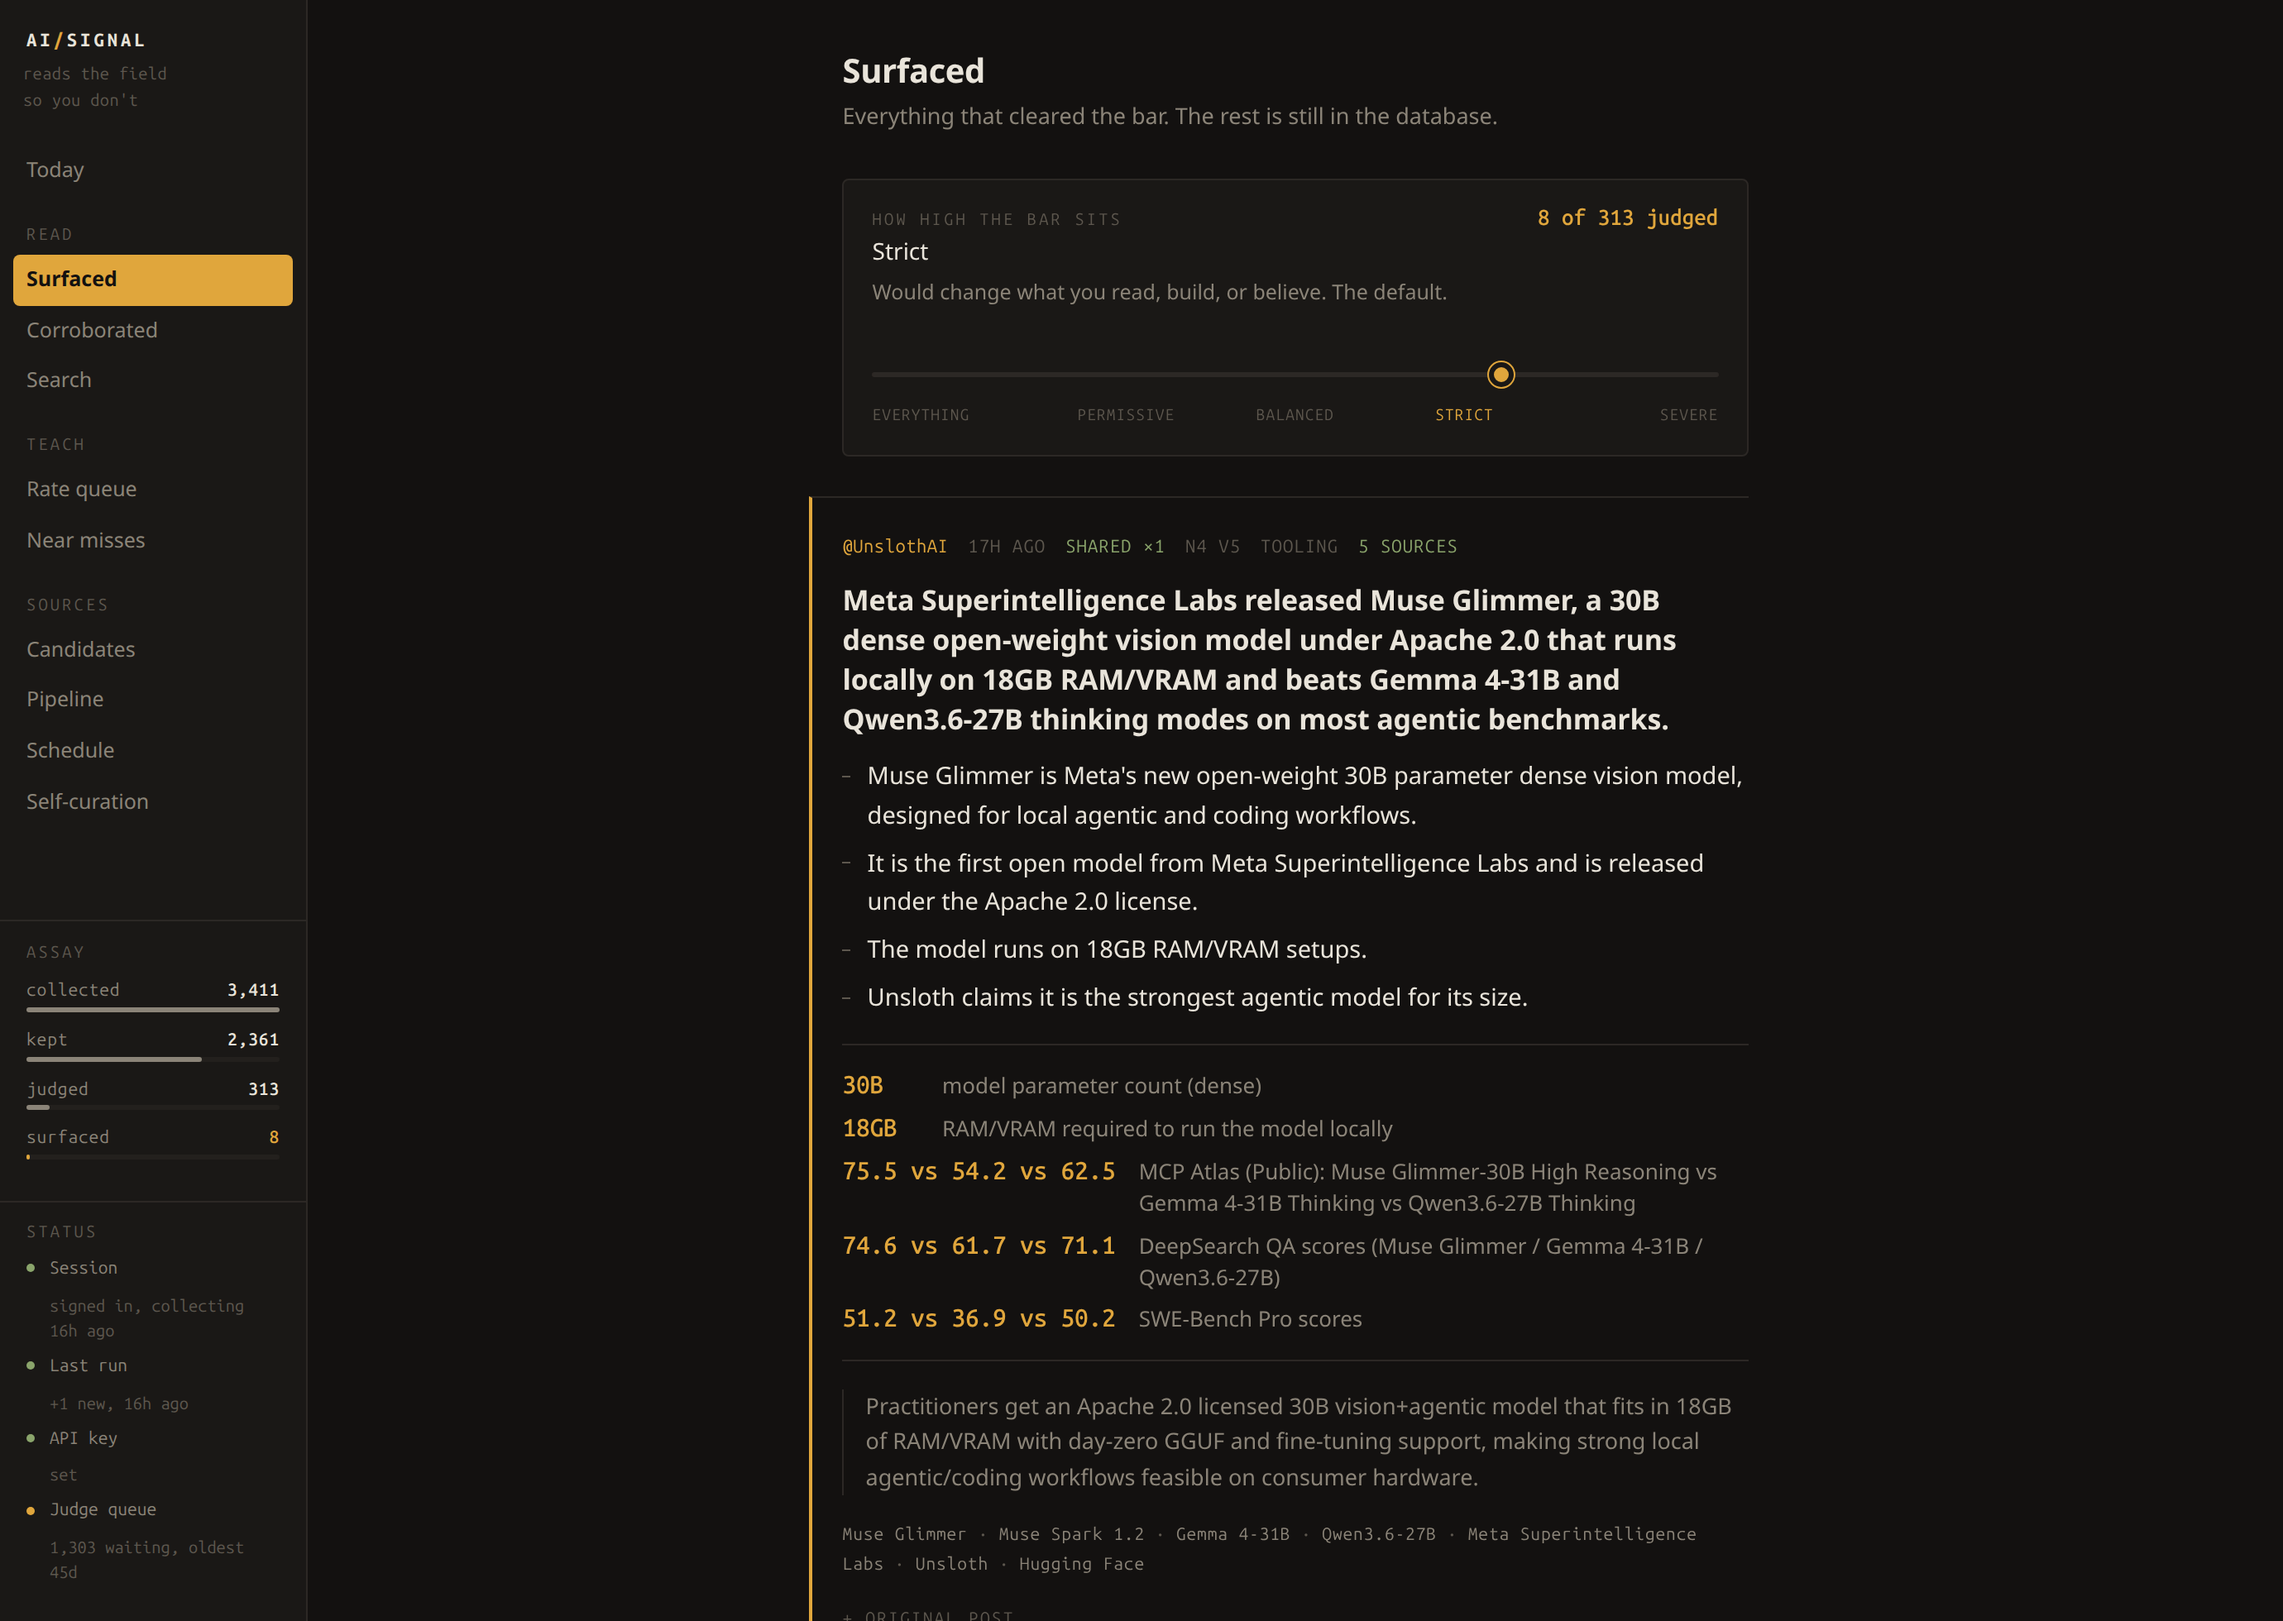
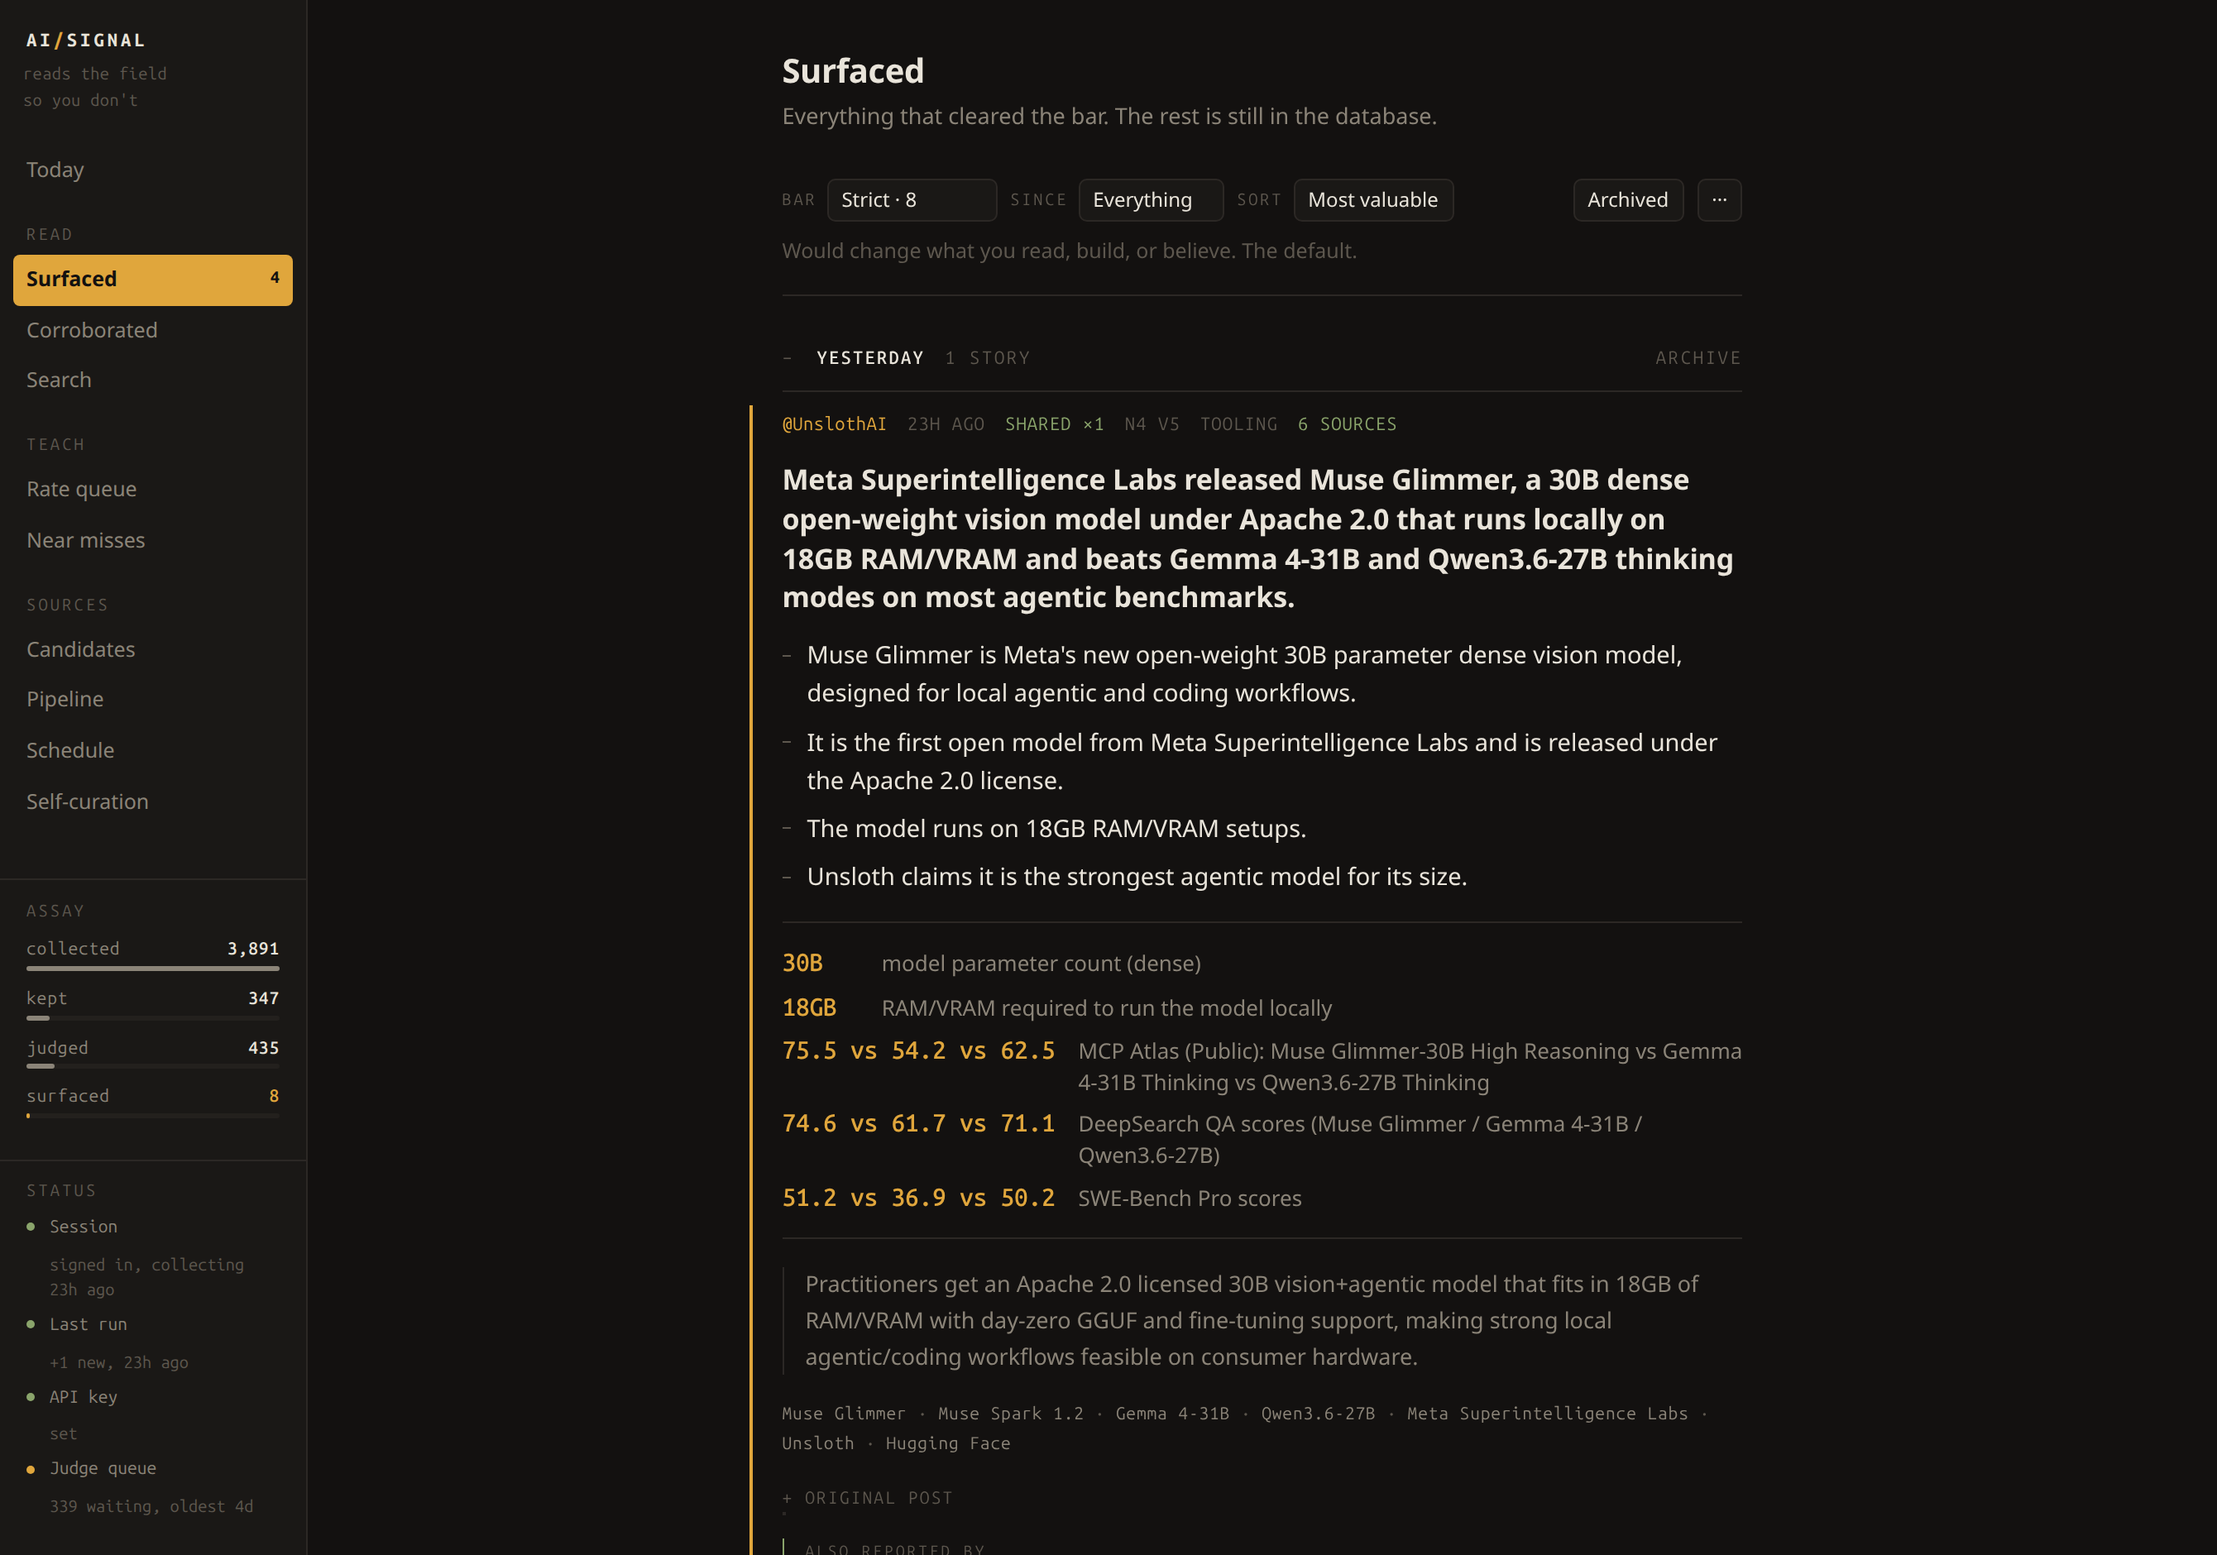
Redesign the reading views around the posts, not the controls
The feed had grown a control panel: a strictness card, six window buttons, three
sort buttons and two archive actions — eleven controls in three stacked rows,
so a page about reading opened with chrome and you scrolled to reach the first
post.

They are one row now. Three selects and a button, each carrying its current
value as its own label, which the button rows could only convey by
highlighting one of six. The rare and destructive-sounding actions — archive a
week, mark all unread — moved into an overflow menu that closes on an outside
click. Same functions, a fifth of the space, and the first post is above the
fold.

Two bugs found by finally rendering every view rather than the two I had
screenshots of:

Candidates was in the navigation with no branch in render(), so clicking it
fell through to the feed path, found no COPY entry and threw on the
destructure. Its list renderer had existed the whole time with nothing calling
it.

And `nav button { display: block }` outranks the `hidden` attribute, so the
"Setting up" link stayed in the sidebar permanently once setup was finished —
visible in every screenshot since it was added, including the ones in the
README.

Light mode is checked now too. It had been defined since the first version of
this UI and never once rendered.

174 tests pass; all eleven views render with no console errors.

diff --git a/ui/index.html b/ui/index.html
@@ -70,6 +70,7 @@ nav button {
   color: var(--muted); text-align: left; padding: 6px 8px; border-radius: 4px;
   font: 12.5px/1.5 var(--sans);
 }
+nav button[hidden] { display: none; }   /* display:block above outranks [hidden] */
 nav button:hover { color: var(--paper); background: var(--raise); }
 nav button.on { color: var(--ink); background: var(--signal); font-weight: 600; }
 nav button:focus-visible { outline: 2px solid var(--signal); outline-offset: 1px; }
@@ -124,7 +125,12 @@ nav button.on b { color: var(--ink); }
 /* --- content ------------------------------------------------------------- */
 main { overflow-y: auto; padding: 30px 40px 80px; }
 .wrap, .wide { margin: 0 auto; }
-.wrap { max-width: 66ch; }
+.wrap { max-width: 70ch; }
+/* Controls are laid out on the content column but must never wrap onto a
+   second line — that was the shape the old three-row stack took. */
+.toolbar { flex-wrap: nowrap; }
+.toolbar .ctl > span { flex: 0 0 auto; }
+.ctl select { max-width: 15ch; text-overflow: ellipsis; }
 .wide-data { max-width: 940px; }          /* prose beyond this is unreadable */
 .wide { max-width: 900px; }
 h1 {
@@ -265,6 +271,52 @@ code {
 .searchbar input:focus {
   outline: none; border-color: var(--signal);
 }
+
+/* --- toolbar -------------------------------------------------------------- */
+/* Controls sit on one line and stay quiet: they are how you adjust the view,
+   not what the page is about. Each select carries its current value as its
+   label, so nothing has to be highlighted to be legible. */
+.toolbar {
+  display: flex; align-items: center; gap: 8px;
+  margin-bottom: 8px;
+}
+.toolbar .spacer { flex: 1 1 auto; }
+.ctl { display: inline-flex; align-items: center; gap: 6px; }
+.ctl > span {
+  font: 10px/1 var(--mono); letter-spacing: .14em; text-transform: uppercase;
+  color: var(--faint);
+}
+.ctl select, .toolbar .ghost {
+  appearance: none; background: var(--panel); color: var(--paper);
+  border: 1px solid var(--rule); border-radius: 5px;
+  padding: 4px 8px; font: 12px/1.4 var(--sans); cursor: pointer;
+}
+.ctl select:hover, .toolbar .ghost:hover { border-color: var(--muted); }
+.ctl select:focus-visible, .toolbar .ghost:focus-visible {
+  outline: 2px solid var(--signal); outline-offset: 1px;
+}
+.toolbar .ghost.on { border-color: var(--signal); color: var(--signal); }
+.barnote {
+  font-size: 12.5px; color: var(--faint);
+  margin: 0 0 20px; padding-bottom: 16px;
+  border-bottom: 1px solid var(--rule);
+}
+
+/* the overflow menu keeps rare, destructive-sounding actions out of the way */
+.menu { position: relative; }
+.menu .pop {
+  display: none; position: absolute; right: 0; top: calc(100% + 5px); z-index: 20;
+  background: var(--panel); border: 1px solid var(--rule); border-radius: 6px;
+  padding: 4px; min-width: 210px;
+  box-shadow: 0 6px 20px rgba(0, 0, 0, .28);
+}
+.menu.open .pop { display: block; }
+.menu .pop button {
+  display: block; width: 100%; text-align: left; background: none; border: 0;
+  color: var(--paper); padding: 7px 10px; border-radius: 4px; cursor: pointer;
+  font: 12.5px/1.4 var(--sans);
+}
+.menu .pop button:hover { background: var(--raise); }
 
 /* --- strictness control -------------------------------------------------- */
 .bar-tool {
@@ -851,33 +903,55 @@ async function curUndo()  { await api().curate_undo();  render(); }
 /* ---- strictness slider --------------------------------------------------- */
 let LEVELS = [], LEVEL_I = 0;
 
-function strictWidget() {
-  const cur = LEVELS[LEVEL_I] || {};
-  return `<div class="bar-tool">
-    <div class="bar-head">
-      <span class="lbl">How high the bar sits</span>
-      <span class="cnt" id="scount">${num(cur.count || 0)} of ${num(LEVELS.length ? LEVELS[0].count : 0)} judged</span>
-    </div>
-    <div class="bar-head"><span class="now" id="sname">${esc(cur.label || '')}</span></div>
-    <div class="bar-note" id="snote">${esc(cur.note || '')}</div>
-    <input type="range" class="slider" min="0" max="${LEVELS.length - 1}" step="1"
-           value="${LEVEL_I}" aria-label="Strictness"
-           oninput="strictPreview(this.value)" onchange="strictApply(this.value)">
-    <div class="ticks">${LEVELS.map((l, i) =>
-      `<span class="${i === LEVEL_I ? 'on' : ''}" onclick="strictApply(${i})">${esc(l.label)}</span>`).join('')}</div>
-  </div>`;
-}
+/* One row instead of eleven buttons in three.
+   The controls had grown by accretion — a strictness card, six window buttons,
+   three sort buttons and two archive actions — so a page about reading opened
+   with a control panel and you scrolled to reach the first post. Selects say
+   the same things in a fifth of the space, and each one shows its current
+   value as its label, which the button rows could only do by highlighting. */
+function toolbar(view) {
+  const bar = view === 'surfaced' ? `
+    <label class="ctl">
+      <span>Bar</span>
+      <select onchange="strictApply(this.value)">
+        ${LEVELS.map((l, i) => `<option value="${i}" ${i === LEVEL_I ? 'selected' : ''}
+          >${esc(l.label)} · ${num(l.count || 0)}</option>`).join('')}
+      </select>
+    </label>` : '';
 
-/* Dragging only re-reads stored scores, so the count updates instantly and
-   nothing is written until the user lets go. */
-function strictPreview(i) {
-  const l = LEVELS[+i]; if (!l) return;
-  document.getElementById('sname').textContent = l.label;
-  document.getElementById('snote').textContent = l.note;
-  document.getElementById('scount').textContent =
-    `${num(l.count)} of ${num(LEVELS[0].count)} judged`;
-  document.querySelectorAll('.ticks span').forEach((t, n) =>
-    t.classList.toggle('on', n === +i));
+  const sort = view === 'surfaced' ? `
+    <label class="ctl">
+      <span>Sort</span>
+      <select onchange="setSort(this.value)">
+        ${SORTS.map(([k, label]) => `<option value="${k}" ${SORT === k ? 'selected' : ''}
+          >${label}</option>`).join('')}
+      </select>
+    </label>` : '';
+
+  return `<div class="toolbar">
+    ${bar}
+    <label class="ctl">
+      <span>Since</span>
+      <select onchange="setWindow(+this.value)">
+        ${WINDOWS.map(([d, label]) => `<option value="${d}" ${WINDOW === d ? 'selected' : ''}
+          >${label}</option>`).join('')}
+      </select>
+    </label>
+    ${sort}
+    <div class="spacer"></div>
+    <button class="ghost ${ARCHIVED ? 'on' : ''}" onclick="toggleArchived()"
+      >${ARCHIVED ? 'Back to inbox' : 'Archived'}</button>
+    <div class="menu">
+      <button class="ghost" onclick="this.parentElement.classList.toggle('open')"
+              aria-label="More actions">···</button>
+      <div class="pop">
+        <button onclick="clearOld()">Archive older than a week</button>
+        <button onclick="unreadAll()">Mark all unread</button>
+      </div>
+    </div>
+  </div>
+  ${view === 'surfaced' ? `<div class="barnote" id="snote">${
+    esc((LEVELS[LEVEL_I] || {}).note || '')}</div>` : ''}`;
 }
 
 async function strictApply(i) {
@@ -966,6 +1040,21 @@ async function render() {
   if (view === 'setup') { return renderSetup(main); }
   if (view === 'search') { return renderSearch(main); }
 
+  // Candidates was in the nav with no branch here, so clicking it fell through
+  // to the feed path, found no COPY entry, and threw on the destructure. The
+  // renderer for its list existed the whole time and nothing called it.
+  if (view === 'candidates') {
+    main.innerHTML = `<div class="wrap"><h1>Candidates</h1>
+      <div class="lede">Accounts discovered by who your tracked accounts follow,
+        and by who turns up replying under their posts.</div>
+      <div class="tabs">
+        <button class="act on" onclick="cands('follows', this)">By followers</button>
+        <button class="act" onclick="cands('replies', this)">By replies</button>
+      </div>
+      <div id="cl"><div class="empty">loading…</div></div></div>`;
+    return cands('follows');
+  }
+
   if (view === 'surfaced') await loadLevels();
   const items = await api().feed(view, 60, SORT, WINDOW, ARCHIVED);
   const [title, lede] = COPY[view];
@@ -973,9 +1062,7 @@ async function render() {
   // on every read view rather than quarantined on its own page. Nobody visits
   // a page called "give feedback".
   main.innerHTML = `<div class="wrap"><h1>${title}</h1><div class="lede">${lede}</div>` +
-    (view === 'surfaced' ? strictWidget() : '') +
-    windowWidget() +
-    (view === 'surfaced' ? sortWidget() : '') +
+    toolbar(view) +
     (items.length ? groupByDay(items)
                   : `<div class="empty">${ARCHIVED
                       ? 'nothing archived in this window'
@@ -994,15 +1081,6 @@ let ARCHIVED = false;
 const WINDOWS = [[2, '48 hours'], [7, 'Week'], [14, 'Fortnight'],
                  [60, 'Two months'], [0, 'Everything']];
 
-function windowWidget() {
-  return `<div class="sorts">${WINDOWS.map(([d, label]) =>
-    `<button class="act ${WINDOW === d ? 'on' : ''}" onclick="setWindow(${d})">${label}</button>`
-  ).join('')}
-  <button class="act ${ARCHIVED ? 'on' : ''}" onclick="toggleArchived()">${
-    ARCHIVED ? 'Back to inbox' : 'Archived'}</button>
-  ${ARCHIVED ? '' : `<button class="act" onclick="clearOld()">Archive older than a week</button>`}
-  </div>`;
-}
 function setWindow(d) { WINDOW = d; render(); }
 function toggleArchived() { ARCHIVED = !ARCHIVED; render(); }
 async function clearOld() {
@@ -1124,12 +1202,6 @@ let SEEN_TIMER = null;
 
 const SORTS = [['value', 'Most valuable'], ['new', 'Newest'], ['unread', 'Unread first']];
 
-function sortWidget() {
-  return `<div class="sorts">${SORTS.map(([k, label]) =>
-    `<button class="act ${SORT === k ? 'on' : ''}" onclick="setSort('${k}')">${label}</button>`
-  ).join('')}<button class="act" onclick="unreadAll()"
-      title="clear read state">Mark all unread</button></div>`;
-}
 function setSort(k) { SORT = k; render(); }
 async function unreadAll() { await api().mark_all_unseen(); render(); refreshUnread(); }
 
@@ -1226,6 +1298,12 @@ window.onStageDone = (p) => {
   // the stage that just finished is the one that unblocks it.
   if (view === 'setup') setTimeout(render, 400);
 };
+
+document.addEventListener('click', (e) => {
+  document.querySelectorAll('.menu.open').forEach(m => {
+    if (!m.contains(e.target)) m.classList.remove('open');
+  });
+});
 
 document.querySelectorAll('nav button').forEach(b => b.onclick = () => {
   document.querySelectorAll('nav button').forEach(x => x.classList.remove('on'));
